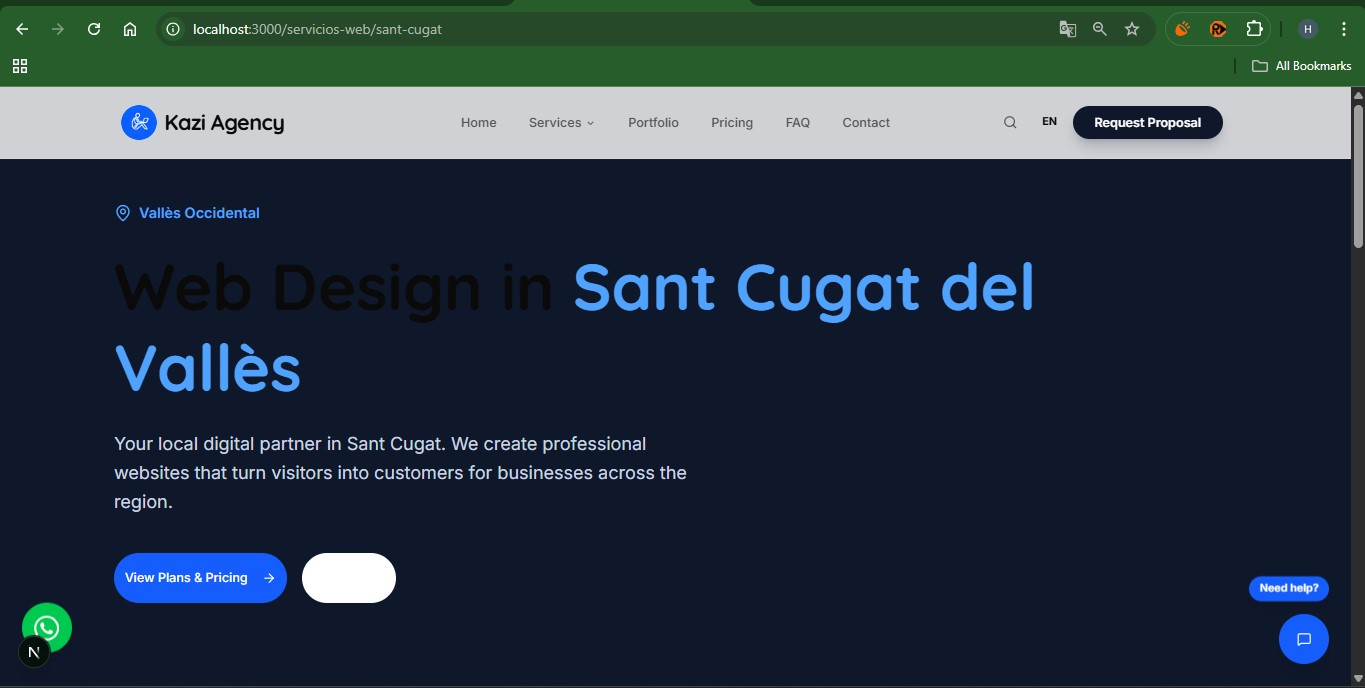
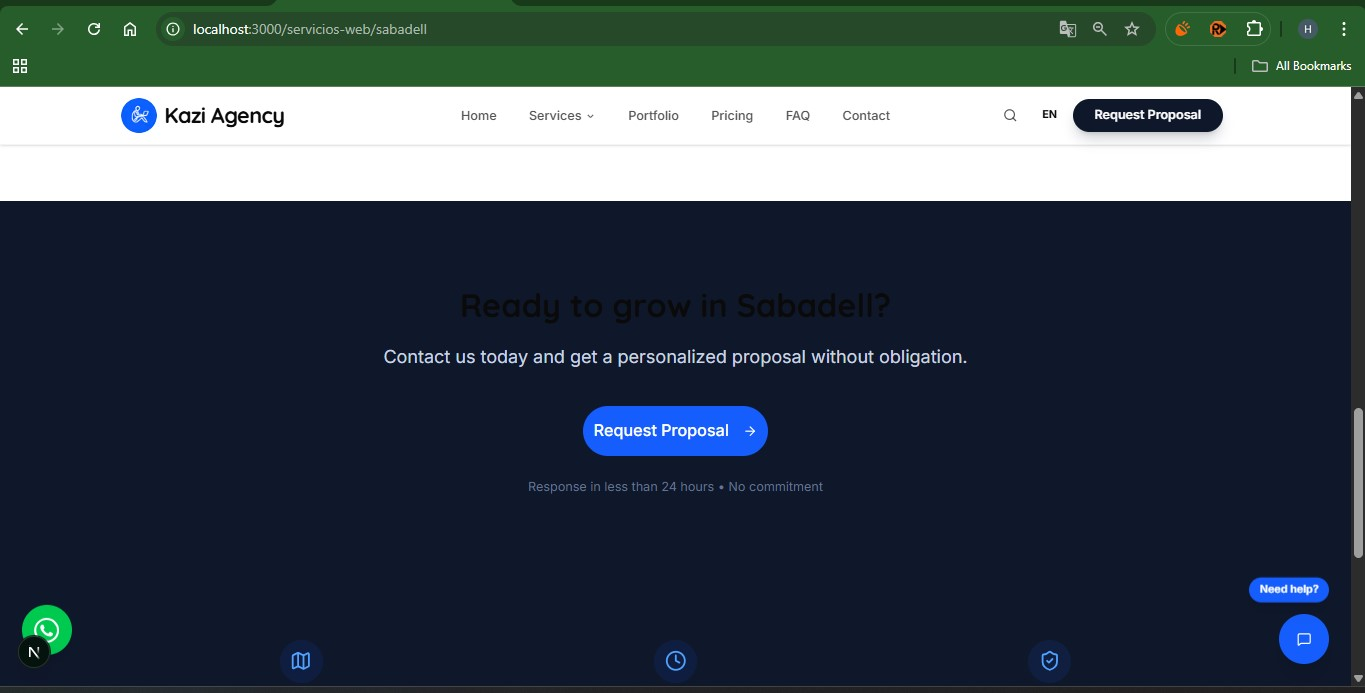
Happy New Year Commit

diff --git a/components/services/CityPageContent.tsx b/components/services/CityPageContent.tsx
@@ -37,7 +37,7 @@ export default function CityPageContent({ city }: CityPageContentProps) {
           </ScrollAnimation>
 
           <ScrollAnimation animation="fade-up" delay={100}>
-            <h1 className="text-5xl md:text-7xl font-heading font-bold mb-6 leading-tight">
+            <h1 className="text-5xl md:text-7xl font-heading font-bold mb-6 leading-tight text-white">
               {t.cityPage?.heroTitle || "Diseño Web en"} <span className="text-blue-400">{city.nameEs}</span>
             </h1>
           </ScrollAnimation>
@@ -56,7 +56,7 @@ export default function CityPageContent({ city }: CityPageContentProps) {
                   <ArrowRight className="ml-2 w-5 h-5" />
                 </Link>
               </Button>
-              <Button asChild variant="outline" className="h-14 px-8 rounded-full border-white/30 text-white hover:bg-white/10">
+              <Button asChild variant="outline" className="h-14 px-8 rounded-full border-white/30 bg-transparent text-white hover:bg-white/10 hover:text-white">
                 <Link href="/contact">
                   <Phone className="mr-2 w-4 h-4" />
                   {t.cityPage?.callUs || "Llámanos"}
@@ -166,7 +166,7 @@ export default function CityPageContent({ city }: CityPageContentProps) {
       {/* CTA Section */}
       <section className="py-24 bg-slate-900 text-white">
         <div className="container mx-auto px-4 text-center">
-          <h2 className="text-4xl font-heading font-bold mb-6">
+          <h2 className="text-4xl font-heading font-bold mb-6 text-white">
             {t.cityPage?.ctaTitle || "¿Listo para crecer en"} {city.nameEs}?
           </h2>
           <p className="text-xl text-slate-300 mb-10 max-w-2xl mx-auto">
@@ -180,7 +180,7 @@ export default function CityPageContent({ city }: CityPageContentProps) {
               </Link>
             </Button>
           </div>
-          <p className="mt-6 text-sm text-slate-500">
+          <p className="mt-6 text-sm text-slate-400">
             {t.cityPage?.ctaNote || "Respuesta en menos de 24 horas • Sin compromiso"}
           </p>
         </div>
